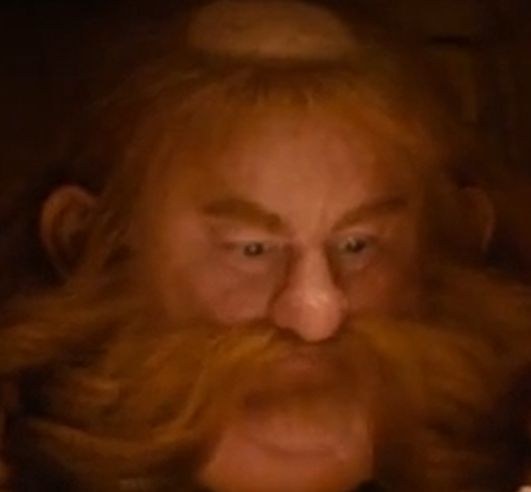
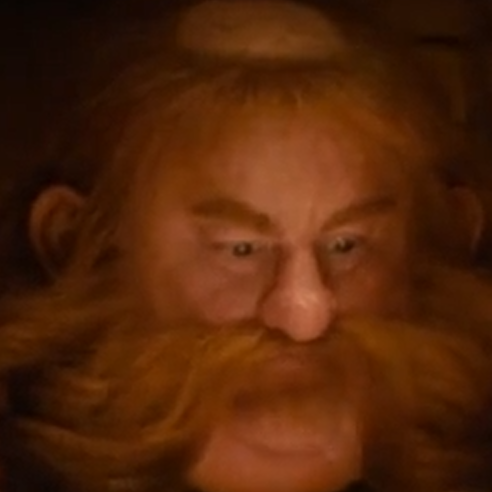
bumbar changes color

diff --git a/js/ui/dvdBouncer.js b/js/ui/dvdBouncer.js
@@ -33,6 +33,22 @@ function resolveCornerName(x, y, minX, maxX, minY, maxY) {
   return 'a corner';
 }
 
+function randomHue() {
+  return Math.floor(Math.random() * 360);
+}
+
+function applyGradientFromHue(el, base) {
+  if (!el || !el.style) return;
+
+  const c1 = `hsla(${base}, 88%, 58%, 0.88)`;
+  const c2 = `hsla(${(base + 72) % 360}, 86%, 57%, 0.82)`;
+  const c3 = `hsla(${(base + 148) % 360}, 84%, 52%, 0.86)`;
+
+  el.style.setProperty('--dvd-grad-1', c1);
+  el.style.setProperty('--dvd-grad-2', c2);
+  el.style.setProperty('--dvd-grad-3', c3);
+}
+
 export function createDvdBouncer({
   containerId = 'game-container',
   containerSelector = '',
@@ -53,6 +69,13 @@ export function createDvdBouncer({
   let vx = Number.isFinite(speedX) ? Math.abs(speedX) : DEFAULTS.speedX;
   let vy = Number.isFinite(speedY) ? Math.abs(speedY) : DEFAULTS.speedY;
   let lastCornerHitAt = 0;
+  let gradientHue = randomHue();
+
+  function applyNextGradient(el) {
+    // Golden-angle hue stepping keeps strong visual separation between hits.
+    gradientHue = (gradientHue + 137) % 360;
+    applyGradientFromHue(el, gradientHue);
+  }
 
   function getContainer() {
     if (typeof document === 'undefined') return null;
@@ -182,6 +205,10 @@ export function createDvdBouncer({
       y = maxY;
       vy = -Math.abs(vy);
       hitY = true;
+    }
+
+    if (hitX || hitY) {
+      applyNextGradient(el);
     }
 
     if (hitX && hitY) {

diff --git a/css/effects.css b/css/effects.css
@@ -243,6 +243,9 @@
 
 /* ===== Effects: DVD Corner Bouncer ===== */
 .dvd-bouncer {
+  --dvd-grad-1: rgba(241, 76, 66, 0.86);
+  --dvd-grad-2: rgba(255, 198, 72, 0.74);
+  --dvd-grad-3: rgba(47, 201, 152, 0.84);
   position: absolute;
   top: 0;
   left: 0;
@@ -256,7 +259,7 @@
   border: 1px solid rgba(255,255,255,0.36);
   background:
     radial-gradient(120% 120% at 25% 20%, rgba(255,255,255,0.45), rgba(255,255,255,0) 58%),
-    linear-gradient(135deg, rgba(241, 76, 66, 0.86), rgba(255, 198, 72, 0.74) 52%, rgba(47, 201, 152, 0.84));
+    linear-gradient(135deg, var(--dvd-grad-1), var(--dvd-grad-2) 52%, var(--dvd-grad-3));
   box-shadow:
     0 0.6rem 1.2rem rgba(5, 9, 24, 0.38),
     0 0 0 2px rgba(255,255,255,0.12) inset;